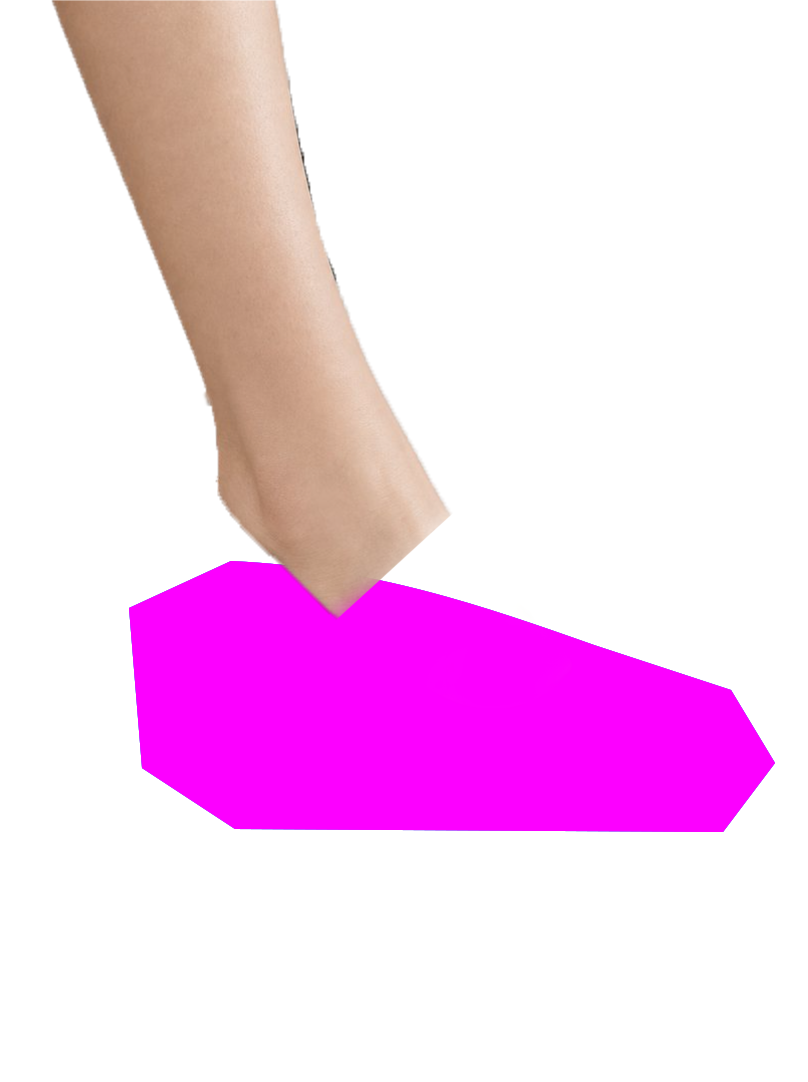
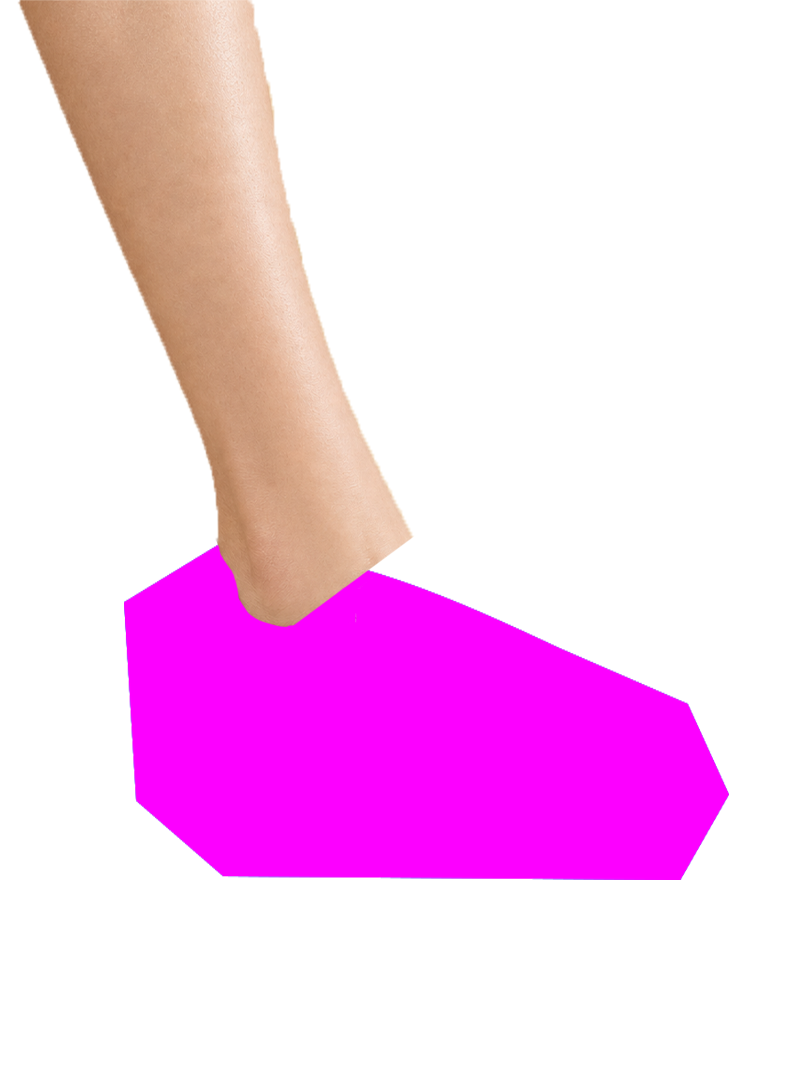
Update fixed angle 3 and 4 references

Changed region(s): [[0.0309, 0.0, 0.5569, 0.5795], [0.1547, 0.549, 0.9592, 0.8235], [0.5569, 0.549, 0.6498, 0.5795]]

diff --git a/app/src/components/ProjectsPanel.tsx b/app/src/components/ProjectsPanel.tsx
@@ -231,10 +231,40 @@ function getReferenceLabel(url: string, index: number) {
   return `参考 ${index + 1}`
 }
 
+function shouldShowReferenceInProjectRecord(url: string) {
+  try {
+    const parsed = new URL(url, window.location.origin)
+    const tag = parsed.searchParams.get('mergeRef') || ''
+    return [
+      'angle-mask',
+      'original-angle-reference',
+      'real-photo-angle-reference',
+      'background',
+    ].includes(tag) || /^product-shoe(?:-|$)/i.test(tag)
+  } catch {
+    return true
+  }
+}
+
+function getProjectRecordReferenceLabel(url: string, index: number) {
+  try {
+    const parsed = new URL(url, window.location.origin)
+    const tag = parsed.searchParams.get('mergeRef') || ''
+    const productMatch = tag.match(/^product-shoe(?:-reference-(\d+)|-primary)?$/i)
+    if (productMatch) return tag === 'product-shoe-primary' ? '产品鞋图 1' : `产品鞋图 ${productMatch[1] || index + 1}`
+    if (tag === 'angle-mask' || tag === 'original-angle-reference' || tag === 'real-photo-angle-reference') return '角度图'
+    if (tag === 'background') return '背景图'
+    if (/^product-shoe(?:-|$)/i.test(tag)) return tag === 'product-shoe-primary' ? '产品鞋图 1' : `产品鞋图 ${index + 1}`
+  } catch {
+    // Fall through to the generic label.
+  }
+  return getReferenceLabel(url, index)
+}
+
 function getReferenceLightboxItems(referenceImageUrls: string[]) {
-  return referenceImageUrls.map((referenceUrl, referenceIndex) => ({
+  return referenceImageUrls.filter(shouldShowReferenceInProjectRecord).map((referenceUrl, referenceIndex) => ({
     imageUrl: referenceUrl,
-    title: getReferenceLabel(referenceUrl, referenceIndex),
+    title: getProjectRecordReferenceLabel(referenceUrl, referenceIndex),
   }))
 }
 
@@ -959,9 +989,9 @@ export function ProjectsPanel(props: ProjectsPanelProps) {
                             {image.size ? ` · ${image.size}` : ''}
                           </span>
                         </figcaption>
-                        {image.referenceImageUrls && image.referenceImageUrls.length > 0 && (
+                        {getReferenceLightboxItems(image.referenceImageUrls || []).length > 0 && (
                           <div className="project-reference-strip" aria-label="生成参考图">
-                            {getReferenceLightboxItems(image.referenceImageUrls).map((referenceItem, referenceIndex, referenceItems) => (
+                            {getReferenceLightboxItems(image.referenceImageUrls || []).map((referenceItem, referenceIndex, referenceItems) => (
                               <figure key={`${image.imageUrl}-ref-${referenceItem.imageUrl}-${referenceIndex}`}>
                                 <button
                                   type="button"

diff --git a/app/src/App.tsx b/app/src/App.tsx
@@ -463,8 +463,8 @@ const mergeImageSlots: MergeImageSlot[] = [
 const mergeAnglePosePrompts: Record<string, string> = {
   'angle-01': '选定姿势提示：斜俯拍近景构图，一只脚从画面右侧伸入并穿鞋，鞋头朝左上方；另一只鞋由手从下方托住展示，位于前景偏左下。整体是“脚上试穿一只 + 手持展示一只”的双鞋组合，手和脚形成交叉层次，镜头从上方斜向俯视，突出试穿与手持展示的互动关系。',
   'angle-02': '选定姿势提示：高位斜俯拍双鞋展示构图，不出现人物肢体。两只鞋斜向并列摆放，整体从左下延伸到右上，鞋头朝右下方，鞋跟朝左上方。画面呈干净的产品陈列视角，两只鞋有轻微前后错位和透视层次，适合表现一双鞋的整体角度和鞋面结构。',
-  'angle-03': '选定姿势提示：严格复刻角度库参考图的单脚侧面试穿近景构图。腿部从画面上方偏左进入，沿轻微右倾的竖向弧线下落到鞋口，脚踝进入鞋内；鞋子占据画面下半部并落在视觉中心区域，鞋身横向侧面展示，鞋跟在左下，鞋头朝右，鞋底接近水平但带轻微透视。镜头接近侧面平视或轻微俯视，画面只强调一只脚穿鞋的试穿动作，不出现第二只脚、手或额外展示鞋。',
-  'angle-04': '选定姿势提示：严格复刻角度库参考图的单脚侧面试穿近景构图。腿部从画面上方偏左进入，沿轻微右倾的竖向弧线下落到鞋口，脚踝进入鞋内；鞋子占据画面下半部并落在视觉中心区域，鞋身横向侧面展示，鞋跟在左下，鞋头朝右，鞋底接近水平但带轻微透视。镜头接近侧面平视或轻微俯视，画面只强调一只脚穿鞋的试穿动作，不出现第二只脚、手或额外展示鞋。',
+  'angle-03': '选定姿势提示：严格复刻角度库参考图的单脚侧面运动鞋试穿近景构图。腿部从画面上方偏左进入，沿右下方向轻微弯曲下落，脚踝插入鞋口；鞋子占据画面中下部的大面积视觉中心，鞋跟在左侧偏下，鞋头朝右，厚底沿画面下方横向延展，鞋身为完整侧面展示。镜头接近侧面平视或轻微低角度近景，画面只强调一只脚穿鞋的试穿动作，不出现第二只脚、手或额外展示鞋。',
+  'angle-04': '选定姿势提示：严格复刻角度库参考图的单脚侧面运动鞋试穿近景构图。腿部从画面上方偏左进入，沿右下方向轻微弯曲下落，脚踝插入鞋口；鞋子占据画面中下部的大面积视觉中心，鞋跟在左侧偏下，鞋头朝右，厚底沿画面下方横向延展，鞋身为完整侧面展示。镜头接近侧面平视或轻微低角度近景，画面只强调一只脚穿鞋的试穿动作，不出现第二只脚、手或额外展示鞋。',
 }
 
 const mergeAngleRoleLocks: Record<string, string> = {
@@ -479,7 +479,7 @@ const mergeAnglePrecisionLocks: Record<string, string> = {
     'ANGLE-03 PRECISION LAYOUT LOCK: follow the code-generated cleaned angle control and original angle-03 reference as a fixed 2D composition, not just a general pose idea.',
     'The product shoe must be the visual center: keep the shoe body centered in the middle-lower area of the final frame, with the whole visible shoe occupying the dominant central subject area. Do not push the shoe to the far left, far right, bottom edge, or corner.',
     'Preserve the angle reference leg entry and bend: one lower leg enters from the upper-left / upper-center area, travels downward with a slight rightward curve, and connects naturally into the shoe opening. Do not make the leg vertical in the exact center, do not rotate it to a front-facing standing pose, and do not add a second leg.',
-    'Preserve the shoe orientation from the reference: side-view horizontal shoe, heel on the left, toe on the right, sole nearly horizontal with subtle perspective, ankle seated inside the opening. Do not flip, mirror, rotate, recrop, or re-center differently from the control layout.',
+    'Preserve the shoe orientation from the reference: large side-view sneaker, heel on the left, toe on the right, thick outsole extending across the lower canvas with the same slight perspective, ankle seated inside the opening. Do not flip, mirror, rotate, recrop, or re-center differently from the control layout.',
     'LEG SKIN CONSISTENCY LOCK: generate exactly one continuous female lower leg with one unified fair natural skin tone. The leg must not contain mismatched skin patches, two different skin colors, color bands, blue/yellow/red mask tint, stocking-like color breaks, duplicated ankles, or another leg with a different complexion.',
     'OPEN SHOE INSTEP SKIN FILL LOCK: if the uploaded product shoe is a sandal, mule, open-top shoe, strappy shoe, Mary Jane, or any shoe that exposes the instep/foot dorsum through openings, automatically generate the visible foot skin inside every opening. The exposed instep must be continuous with the ankle and leg, use the same fair natural skin tone, show subtle natural skin texture, and fill the opening naturally behind straps/buckles. Do not leave hollow cutouts, background-colored holes, black gaps, empty voids, mask-color gaps, or transparent-looking areas where foot skin should be visible.',
     'CLEAN INSTEP SKIN LOCK: exposed instep/foot skin must be clean, smooth, even, and continuous. Shoe holes, strap holes, buckle holes, punched eyelets, black dots, circular holes, and perforation details are allowed only on shoe straps, buckles, leather panels, or shoe upper material. They must never appear on the skin. Do not add freckles, moles, dirty speckles, pore-like black dots, dotted stains, or eyelet-like marks on the exposed foot skin.',
@@ -488,7 +488,7 @@ const mergeAnglePrecisionLocks: Record<string, string> = {
     'ANGLE-04 PRECISION LAYOUT LOCK: follow the code-generated cleaned angle control and original angle-03 reference as a fixed 2D composition, not just a general pose idea.',
     'The product shoe must be the visual center: keep the shoe body centered in the middle-lower area of the final frame, with the whole visible shoe occupying the dominant central subject area. Do not push the shoe to the far left, far right, bottom edge, or corner.',
     'Preserve the angle reference leg entry and bend: one lower leg enters from the upper-left / upper-center area, travels downward with a slight rightward curve, and connects naturally into the shoe opening. Do not make the leg vertical in the exact center, do not rotate it to a front-facing standing pose, and do not add a second leg.',
-    'Preserve the shoe orientation from the reference: side-view horizontal shoe, heel on the left, toe on the right, sole nearly horizontal with subtle perspective, ankle seated inside the opening. Do not flip, mirror, rotate, recrop, or re-center differently from the control layout.',
+    'Preserve the shoe orientation from the reference: large side-view sneaker, heel on the left, toe on the right, thick outsole extending across the lower canvas with the same slight perspective, ankle seated inside the opening. Do not flip, mirror, rotate, recrop, or re-center differently from the control layout.',
     'LEG SKIN CONSISTENCY LOCK: generate exactly one continuous female lower leg with one unified fair natural skin tone. The leg must not contain mismatched skin patches, two different skin colors, color bands, blue/yellow/red mask tint, stocking-like color breaks, duplicated ankles, or another leg with a different complexion.',
     'OPEN SHOE INSTEP SKIN FILL LOCK: if the uploaded product shoe is a sandal, mule, open-top shoe, strappy shoe, Mary Jane, or any shoe that exposes the instep/foot dorsum through openings, automatically generate the visible foot skin inside every opening. The exposed instep must be continuous with the ankle and leg, use the same fair natural skin tone, show subtle natural skin texture, and fill the opening naturally behind straps/buckles. Do not leave hollow cutouts, background-colored holes, black gaps, empty voids, mask-color gaps, or transparent-looking areas where foot skin should be visible.',
     'CLEAN INSTEP SKIN LOCK: exposed instep/foot skin must be clean, smooth, even, and continuous. Shoe holes, strap holes, buckle holes, punched eyelets, black dots, circular holes, and perforation details are allowed only on shoe straps, buckles, leather panels, or shoe upper material. They must never appear on the skin. Do not add freckles, moles, dirty speckles, pore-like black dots, dotted stains, or eyelet-like marks on the exposed foot skin.',
@@ -499,7 +499,7 @@ function shouldUseLibraryCoordinateControl(angleId: string) {
   return angleId === 'angle-03' || angleId === 'angle-04'
 }
 
-const fixedSingleFootLegReferenceUrl = '/assets/merge-angle-library/angle-03-fixed-leg-reference-magenta.png?v=20260713-magenta-leg'
+const fixedSingleFootLegReferenceUrl = '/assets/merge-angle-library/angle-03-fixed-leg-reference-magenta.png?v=20260715-214-leg-magenta'
 
 function buildFixedSingleFootReferenceLock(angleId: string) {
   if (!shouldUseLibraryCoordinateControl(angleId)) return ''
@@ -509,9 +509,9 @@ function buildFixedSingleFootReferenceLock(angleId: string) {
     'A hidden fixed leg and magenta auxiliary reference is provided for angle-03 / angle-04. Use the leg area only for the model leg anatomy, calf shape, leg skin tone, leg width, ankle size, leg curvature, and natural leg structure. Use the magenta region only as a secondary rough shoe-area hint to help align the foot opening; it is not the primary placement authority. Do not render magenta color, and do not treat the magenta region as shoe appearance, shoe material, shoe color, or shoe design.',
     'Use a 1:1 canvas coordinate system from X0-Y0 at top-left to X100-Y100 at bottom-right. Keep the leg, crop, scale, and direction locked to these relative coordinates no matter what product shoe image is uploaded.',
     'Primary shoe placement rule: the original angle-library yellow/S shoe region is the exact and highest authority for final shoe position, size, direction, toe direction, heel position, perspective, scale, occlusion, and crop. The magenta region and all text size-memory rules are only secondary auxiliary hints and must never override, enlarge, lower, recenter, or move the yellow/S region.',
-    'Fixed shoe region from the angle yellow/S area: the single worn shoe must occupy the selected angle yellow/S region exactly, with the final shoe outer boundary fitted inside that yellow/S region. Heel/body side stays at the left-lower side of the yellow/S region, toe/front follows the right-facing yellow/S direction, and the outsole follows the yellow/S perspective. Do not move the shoe to a generic lower-middle product-photo position, do not make it a larger close-up, and do not change the composition scale to satisfy aesthetic centering.',
-    'Fixed leg region: the one visible lower leg enters from the top-left/top-center area around X22-X44 at Y0, travels downward with a slight rightward curve through X34-X52, and inserts into the shoe opening around X40-X54 and Y43-Y58. Keep the ankle seated inside the shoe opening; do not detach, thicken, straighten, mirror, or shift the leg.',
-    'Fixed proportion rule: leg width, ankle size, and leg-to-shoe contact must stay consistent with the hidden fixed-leg reference image. Shoe length, shoe height, shoe direction, shoe placement, shoe center, and crop must follow the angle yellow/S region first; the magenta region only helps confirm the intended shoe zone. The uploaded product shoe reference controls shoe design, color, material, sole, laces, straps, logo, and texture; it must not change the leg pose, leg scale, yellow/S shoe direction, yellow/S shoe placement, shoe center, or crop.',
+    'Fixed shoe region from the angle yellow/S area: the single worn shoe must occupy the selected angle yellow/S region exactly, with the final shoe outer boundary fitted inside the new yellow/S shoe region at approximately X16.4-X87.6 and Y48.2-Y84.1. Heel/body side stays at the left-lower side of the yellow/S region, toe/front follows the right-facing yellow/S direction, the shoe opening sits under the descending ankle around X27-X48 and Y48-Y57, and the outsole follows the yellow/S perspective with its bottom baseline near Y84. Do not move the shoe to a generic lower-middle product-photo position, do not make it a larger close-up, and do not change the composition scale to satisfy aesthetic centering.',
+    'Fixed leg region: the one visible lower leg enters from the upper-left area around X2-X31 at Y0, travels downward with a slight rightward curve through X13-X42 and X24-X48, and inserts into the shoe opening around X27-X48 and Y48-Y57. Keep the ankle seated inside the shoe opening; do not detach, thicken, straighten, mirror, or shift the leg.',
+    'Fixed proportion rule: leg width, ankle size, and leg-to-shoe contact must stay consistent with the hidden fixed-leg reference image. The hidden fixed-leg magenta auxiliary shoe zone is approximately X15.3-X90.1 and Y50.4-Y81.2, and only confirms the rough shoe/ankle contact zone. Shoe length, shoe height, shoe direction, shoe placement, shoe center, bottom baseline, and crop must follow the angle yellow/S region first. The uploaded product shoe reference controls shoe design, color, material, sole, laces, straps, logo, and texture; it must not change the leg pose, leg scale, yellow/S shoe direction, yellow/S shoe placement, shoe center, bottom baseline, or crop.',
     'Approved size memory for angle-03 / angle-04 is soft and subordinate: it may only help keep angle-03 and angle-04 visually consistent after the shoe has already been fitted into the original angle yellow/S region. It must not provide any background, prop, room layout, wall/floor style, color temperature, or scene element. Do not enlarge, shrink, lower, raise, or recenter the shoe to match an old numeric size range. If text-derived size memory conflicts with the angle yellow/S region, ignore the size memory completely and follow the yellow/S region.',
     'Fixed contact shadow rule for angle-03 / angle-04: the shoe must sit on the uploaded background floor with a soft grounded contact shadow. Keep a slightly deeper shadow directly under the outsole and heel, fading naturally outward along the floor plane. The shadow direction, brightness, softness, and color must follow the current uploaded background lighting only. Do not copy or recreate any non-current-background object, prop, room layout, wall/floor style, text, label, or scene element from any previous output, fixed reference, angle reference, or product photo.',
     'Angle-03 / angle-04 matched-pair calibration rule: angle-03 and angle-04 are a matched pair and must use the same invisible calibration grid. After each shoe is fitted into the original angle yellow/S region, keep the shoe outer bounding box, shoe center, heel position, toe endpoint, outsole contact line, ankle opening height, leg entry point, camera crop, floor contact shadow footprint, shadow softness, shadow direction, highlight direction, exposure, and overall light intensity visually consistent across the two outputs. Only shoe appearance, color, material, logo, stitching, sole details, and product identity may differ. If product reference 1 and product reference 2 have different shapes or thickness, fit both into the same outer placement envelope instead of letting one become larger, lower, brighter, darker, or differently lit.',
@@ -521,6 +521,9 @@ function buildFixedSingleFootReferenceLock(angleId: string) {
     'Open shoe exposed-foot rule for angle-03 / angle-04: when the uploaded product shoe has open vamp areas, straps, cutouts, sandal gaps, Mary-Jane openings, mule openings, or any visible top-of-foot exposure, fill those openings with a realistic instep/foot dorsum connected to the same leg. The instep skin must match the leg skin tone exactly, remain evenly colored, include fine natural skin texture, and sit naturally under straps and around buckles. Openings must never show background, black holes, empty transparent gaps, mask colors, or missing-foot voids.',
     'Clean exposed-foot rule for angle-03 / angle-04: the exposed instep skin must stay clean and evenly toned. Shoe perforations, strap holes, buckle holes, punched eyelets, decorative dots, and leather-hole details belong only on the shoe material. Never transfer shoe holes or dotted product details onto skin; never render freckles, moles, black dots, dirty speckles, pore-like dark marks, or eyelet-like holes on the foot skin.',
     'Background priority rule: the uploaded background image is the only environment source for angle-03 / angle-04. Preserve the uploaded background exactly as it is, including only the environment elements already visible in that image, their position, scale, crop, perspective, occlusion, color temperature, lighting, and shadows. Do not create any new background structure, edge line, room feature, prop, texture, or pattern that is not already visible in the uploaded background.',
+    'Foreground occlusion lock for angle-03 / angle-04: if the uploaded background contains foreground objects, props, candles, books, furniture edges, plants, or any object in front of the floor area, those objects must never push the shoe backward, shrink the shoe, move the shoe behind them, change the shoe center, or reduce the fixed yellow/S shoe size. Keep the leg and shoe locked to the original yellow/S region first. If a foreground object overlaps the fixed shoe/leg footprint, let the generated shoe, leg, and natural contact shadow cover or partially hide only that overlapping part while preserving the rest of the uploaded background. Do not create an avoidance composition where the product becomes smaller, farther away, offset, or visually behind the prop.',
+    'Low shoe anchor rule for foreground backgrounds: keep the shoe outsole baseline, toe endpoint, heel base, and lower outer boundary at the same low canvas position as the original angle yellow/S shoe region. Foreground props must be treated as passive background content, never as obstacles for composition. Do not lift the shoe upward, shorten the outsole, move the toe upward, crop the shoe smaller, or place the shoe farther back to reveal a candle, book, vase, furniture edge, or any foreground object. If there is a conflict, the shoe remains in front at the fixed low placement and the foreground object is partially hidden behind the shoe/leg/shadow.',
+    'Flat-shoe bottom anchor for angle-03 / angle-04: when the uploaded product shoe is a flat shoe, thin-soled shoe, ballet flat, Mary Jane flat, loafer, casual flat, or any shoe with little or no heel height, the bottom of the shoe must align to the bottom edge of the original angle yellow/S shoe region. A thin sole must not make the whole shoe float upward. Keep the front sole contact point, heel bottom, outsole lower edge, and shoe shadow seated on the same yellow/S bottom baseline used by the fixed reference.',
     'Final background stability check for angle-03 / angle-04: after fitting the leg and shoe, reread the current uploaded background directly. Preserve every visible current-background element, its position, scale, crop, perspective, occlusion, color temperature, and lighting. If any current-background element disappears, moves, changes identity, or any element not visible in the current uploaded background appears, the result is wrong. Only product, body parts, and contact shadows may be blended into the existing uploaded background light.',
   ].join('\n')
 }
@@ -565,12 +568,12 @@ const mergeAngleLibrary = [
   {
     id: 'angle-03',
     label: '角度 3｜单脚侧面试穿',
-    url: '/assets/merge-angle-library/angle-03.webp',
+    url: '/assets/merge-angle-library/angle-03.png?v=20260715-213-fixed-foot-layout',
   },
   {
     id: 'angle-04',
     label: '角度 4｜单脚侧面试穿',
-    url: '/assets/merge-angle-library/angle-03.webp',
+    url: '/assets/merge-angle-library/angle-03.png?v=20260715-213-fixed-foot-layout',
   },
 ]
 const mergeAngleBatchLimit = 10

diff --git a/app/server/index.js b/app/server/index.js
@@ -617,8 +617,8 @@ function buildFixedSingleFootLibraryFinalLock(angleSource = '') {
     '[MUST] This is a fixed single-foot side-view try-on template. The uploaded product shoe may change only the shoe appearance, design, material, color, sole, laces/straps/buckles, logo, and texture. It must never change the final leg direction, leg size, angle-yellow/S shoe direction, angle-yellow/S shoe size, angle-yellow/S shoe center, camera angle, crop, or proportion.',
     '[MUST] The uploaded product shoe reference is the only source for the final shoe exterior. Never render the magenta region color. Never copy any shoe color, material, heel shape, buckle, strap, toe shape, sole shape, texture, or shoe style from the fixed leg/magenta reference. The fixed leg/magenta reference controls only human leg anatomy, while the original angle yellow/S region controls precise shoe placement, size, angle, direction, perspective, and bounding area.',
     '[MUST] PRIMARY SHOE PLACEMENT AUTHORITY: the original angle reference yellow/S shoe region is the exact and highest authority for the final shoe position, shoe size, shoe angle, shoe direction, toe direction, heel position, perspective, scale, occlusion, visual center, and crop. The magenta region and all text size-memory rules are only secondary auxiliary hints and must never override, enlarge, lower, recenter, or move the angle yellow/S region.',
-    '[MUST] Use the angle yellow/S region as a fixed X0-Y0 to X100-Y100 canvas. The one worn shoe must fit inside the yellow/S shoe region exactly, not merely near it. The heel/body side remains on the left side of that yellow/S region, the toe/front follows the right-facing yellow/S direction, and the outsole follows the yellow/S perspective. Use the magenta region only to confirm the rough shoe zone and ankle contact. Do not move the shoe to a generic lower-middle product-photo position, do not make it a larger close-up, and do not change the composition scale to satisfy aesthetic centering.',
-    '[MUST] The one lower leg must stay fixed to the reference: it enters from the upper-left / upper-center area around X22-X44 at Y0, curves slightly rightward downward through X34-X52, and inserts into the shoe opening around X40-X54 and Y43-Y58. Keep the ankle seated inside the shoe opening. Do not straighten, mirror, thicken, shrink, detach, recenter, rotate, or move the leg.',
+    '[MUST] Use the angle yellow/S region as a fixed X0-Y0 to X100-Y100 canvas. The one worn shoe must fit inside the yellow/S shoe region exactly, not merely near it. In the current fixed angle reference, the yellow/S shoe is a large side-view shoe at approximately X16.4-X87.6 and Y48.2-Y84.1: heel/body side on the left-lower area, toe/front on the right, outsole bottom baseline near Y84, and shoe opening under the entering ankle around X27-X48 and Y48-Y57. Use the magenta region only to confirm the rough shoe zone and ankle contact. Do not move the shoe to a generic lower-middle product-photo position, do not make it a larger close-up, and do not change the composition scale to satisfy aesthetic centering.',
+    '[MUST] The one lower leg must stay fixed to the new reference: it enters from the upper-left area around X2-X31 at Y0, curves slightly rightward downward through X13-X42 and X24-X48, and inserts into the shoe opening around X27-X48 and Y48-Y57. The hidden fixed-leg magenta auxiliary shoe zone is approximately X15.3-X90.1 and Y50.4-Y81.2, and only confirms the rough shoe/ankle contact zone. Keep the ankle seated inside the shoe opening. Do not straighten, mirror, thicken, shrink, detach, recenter, rotate, or move the leg.',
     '[MUST] The leg-to-shoe proportion is fixed: one continuous slim female lower leg, one ankle, one worn shoe. Do not add a second leg, second foot, second ankle, hand, display shoe, floating shoe, pair display, standing pose, front-view pose, overhead pose, or full-body shot.',
     '[MUST] APPROVED SHOE SIZE MEMORY IS SOFT AND SUBORDINATE: it may only help keep angle-03 and angle-04 visually consistent after the shoe has already been fitted into the original angle yellow/S region. This memory provides only pair consistency, outsole baseline feeling, ankle-contact feeling, and contact-shadow footprint; it must not provide any background, prop, room layout, wall/floor style, color temperature, or scene element. Do not enlarge, shrink, lower, raise, or recenter the shoe to match an old numeric size range. If text-derived size memory conflicts with the angle yellow/S region, ignore the size memory completely and follow the yellow/S region.',
     '[MUST] ANGLE-03 / ANGLE-04 MATCHED-PAIR CALIBRATION: angle-03 and angle-04 are a matched pair and must use the same invisible calibration grid. After each shoe is fitted into the original angle yellow/S region, keep the shoe outer bounding box, shoe center, heel position, toe endpoint, outsole contact line, ankle opening height, leg entry point, camera crop, floor contact shadow footprint, shadow softness, shadow direction, highlight direction, exposure, and overall light intensity visually consistent across the two outputs. Only shoe appearance, color, material, logo, stitching, sole details, and product identity may differ. If product reference 1 and product reference 2 have different shapes or thickness, fit both into the same outer placement envelope instead of letting one become larger, lower, brighter, darker, or differently lit.',
@@ -627,6 +627,9 @@ function buildFixedSingleFootLibraryFinalLock(angleSource = '') {
     '[MUST] The entire visible leg must have one unified fair natural skin tone with translucent realistic skin texture. The thigh/calf/ankle/foot skin must be the same complexion from top to shoe opening. Shadows may change brightness only, not hue or ethnicity. Do not generate mismatched skin patches, two skin tones, blue/yellow/red mask tint, color bands, stocking-like breaks, socks, leggings, bruised/dark patches, or a second different-complexion limb.',
     '[MUST] OPEN SHOE INSTEP SKIN FILL: if the uploaded product shoe is a sandal, mule, open-top shoe, strappy shoe, Mary Jane, or any shoe that exposes the instep/foot dorsum through vamp openings, cutouts, straps, buckle gaps, or top openings, automatically generate the visible foot skin inside those openings. The exposed instep must be anatomically continuous with the ankle and lower leg, use the exact same fair natural skin tone, follow the same lighting, and show fine natural skin texture. The shoe straps and buckles sit on top of the skin. Do not leave background-colored holes, black voids, transparent-looking gaps, mask-color gaps, missing-foot areas, or hollow cutouts where the foot skin should appear.',
     '[MUST] CLEAN EXPOSED INSTEP SKIN: exposed instep/foot skin must be clean, smooth, evenly toned, and unperforated. Shoe holes, strap holes, buckle holes, punched eyelets, decorative perforations, black circular holes, and dotted product details are allowed only on the shoe straps, buckles, leather panels, or shoe upper material. Never transfer these holes or dots onto the skin. Do not generate freckles, moles, dirty speckles, pore-like black dots, dotted stains, eyelet-like marks, or hole-like artifacts on the exposed foot skin.',
+    '[MUST] FOREGROUND OCCLUSION LOCK: if the uploaded background contains foreground objects, props, candles, books, furniture edges, plants, or any object in front of the floor area, those objects must never push the shoe backward, shrink the shoe, move the shoe behind them, change the shoe center, or reduce the fixed angle yellow/S shoe size. Keep the leg and shoe locked to the original angle yellow/S region first. If a foreground object overlaps the fixed shoe/leg footprint, the generated shoe, leg, and natural contact shadow may cover or partially hide only that overlapping foreground area while preserving the rest of the uploaded background. Do not create an avoidance composition where the product becomes smaller, farther away, offset, hidden behind the prop, or visually less important.',
+    '[MUST] LOW SHOE ANCHOR WITH FOREGROUND BACKGROUNDS: keep the shoe outsole baseline, toe endpoint, heel base, and lower outer boundary at the same low canvas position as the original angle yellow/S shoe region. Foreground props are passive background content only, never obstacles that the product must avoid. Do not lift the shoe upward, shorten the outsole, move the toe upward, crop the shoe smaller, or place the shoe farther back to reveal a candle, book, vase, furniture edge, or any foreground object. If there is a conflict, the shoe remains in front at the fixed low placement and the foreground object is partially hidden behind the shoe/leg/contact shadow.',
+    '[MUST] FLAT-SHOE BOTTOM ANCHOR: when the uploaded product shoe is a flat shoe, thin-soled shoe, ballet flat, Mary Jane flat, loafer, casual flat, or any shoe with little or no heel height, the bottom of the shoe must align to the bottom edge of the original angle yellow/S shoe region. A thin sole must not make the whole shoe float upward. Keep the front sole contact point, heel bottom, outsole lower edge, and shoe shadow seated on the same angle yellow/S bottom baseline used by the fixed reference.',
     '[MUST] Before final output, check: if the shoe does not match the angle yellow/S region position, size, direction, toe/heel axis, perspective, and visual center, if the leg does not enter from the upper-left/top-center and connect to the shoe opening, or if the leg skin contains two different tones, the result is wrong and must be regenerated internally.',
     '[MUST] FINAL BACKGROUND STABILITY CHECK: after fitting the leg and shoe, reread the current uploaded background directly. Preserve every visible current-background element, its position, scale, crop, perspective, occlusion, color temperature, and lighting. If any current-background element disappears, moves, changes identity, or any element not visible in the current uploaded background appears, the result is wrong and must be regenerated internally.',
   ].join('\n')
@@ -4627,6 +4630,9 @@ app.post('/api/run/merge-image-generate', upload.array('images'), async (req, re
             'Final matched-pair check for angle-03 and angle-04: compare shoe length, shoe height, shoe center, heel position, toe endpoint, outsole baseline, ankle opening height, leg entry point, contact shadow footprint, shadow softness, shadow direction, highlight direction, exposure, and camera crop only after both shoes are fitted into their original angle yellow/S regions. Product references may change shoe identity and details only. Never move, enlarge, lower, crop, recenter, relight, brighten, darken, or change shadow scale away from the angle yellow/S region and uploaded background lighting to satisfy product-photo appearance.',
             'Final open-shoe foot check for angle-03 and angle-04: if the product shoe exposes the instep through sandal/open-top/strap/cutout/buckle openings, the visible foot dorsum must be filled with natural skin continuous from the same ankle and leg. It must match the leg skin tone, lighting, and fine skin texture. Any background-colored hole, black void, transparent-looking gap, missing instep, or hollow opening where skin should be visible is a failed result.',
             'Final clean-skin check for angle-03 and angle-04: shoe eyelets, punched strap holes, buckle holes, black dots, circular perforations, and dotted product details may appear only on shoe material. If any of these dot/hole details appear on exposed instep skin, foot skin, ankle skin, or leg skin, the result is wrong. The skin surface must look clean and evenly toned, not spotted or perforated.',
+            'Final foreground-occlusion check for angle-03 and angle-04: foreground objects from the uploaded background must not cause the shoe to become smaller, move backward, move behind the object, offset from the fixed yellow/S region, or lose its visual-center placement. If a prop overlaps the fixed product footprint, keep the shoe at the original fixed position and allow the shoe/leg/contact shadow to naturally cover the overlapping part of the prop; preserving the prop must never override the fixed shoe position and size.',
+            'Final low-placement check for angle-03 and angle-04: if a foreground prop causes the shoe outsole baseline, toe, heel, or lower boundary to shift upward compared with the original fixed yellow/S shoe region, the result is wrong. The shoe must stay at the same low, large, close-up placement even when the uploaded background has a candle, book, vase, or other foreground object near the bottom/front of the image.',
+            'Final flat-shoe bottom check for angle-03 and angle-04: if the uploaded product is a flat or thin-soled shoe and the shoe bottom floats above the bottom edge of the original yellow/S shoe region, the result is wrong. Flat shoes must use the same yellow/S bottom baseline as the fixed reference, not a higher ankle-aligned baseline.',
           ].join('\n')
       : hasAngleControlReference
       ? isSingleFootAngleControl